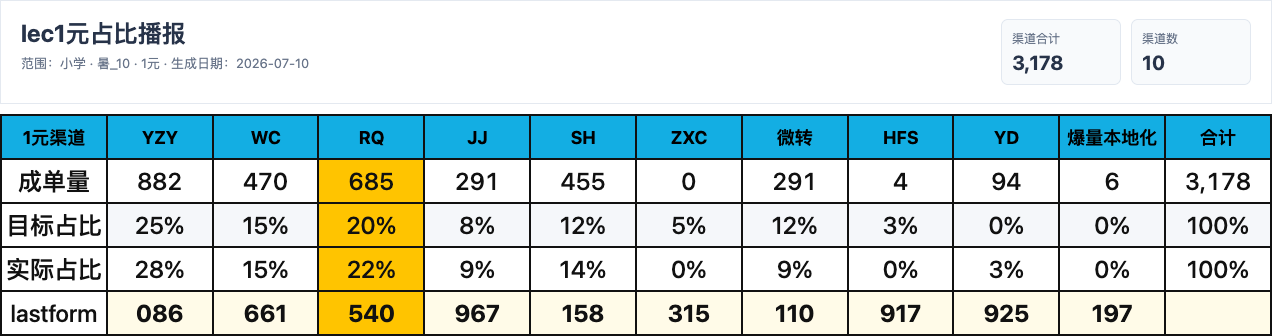
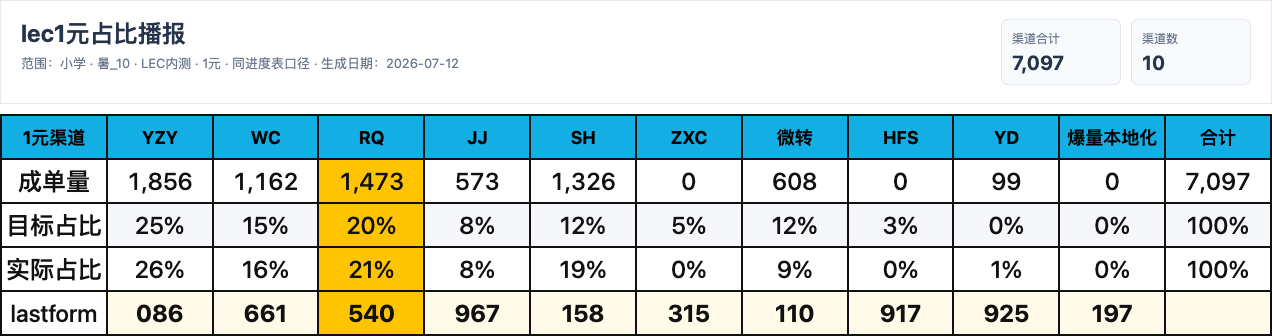
Align lec1 share report with progress summary

diff --git a/reports/daily_progress/lec1_share.html b/reports/daily_progress/lec1_share.html
@@ -10,17 +10,17 @@
     <header>
       <div>
         <h1>lec1元占比播报</h1>
-        <p>范围：小学 · 暑_10 · 1元 · 生成日期：2026-07-10</p>
+        <p>范围：小学 · 暑_10 · LEC内测 · 1元 · 同进度表口径 · 生成日期：2026-07-12</p>
       </div>
       <div class="metrics">
-        <div><span>渠道合计</span><b>3,178</b></div>
+        <div><span>渠道合计</span><b>7,097</b></div>
         <div><span>渠道数</span><b>10</b></div>
       </div>
     </header>
     <section class="card lec1-card">
       <table class="lec1-table">
         <thead><tr><th>1元渠道</th><th>YZY</th><th>WC</th><th>RQ</th><th>JJ</th><th>SH</th><th>ZXC</th><th>微转</th><th>HFS</th><th>YD</th><th>爆量本地化</th><th>合计</th></tr></thead>
-        <tbody><tr><th>成单量</th><td class="num">882</td><td class="num">470</td><td class="num highlight">685</td><td class="num">291</td><td class="num">455</td><td class="num">0</td><td class="num">291</td><td class="num">4</td><td class="num">94</td><td class="num">6</td><td class="num">3,178</td></tr><tr><th>目标占比</th><td>25%</td><td>15%</td><td class="highlight">20%</td><td>8%</td><td>12%</td><td>5%</td><td>12%</td><td>3%</td><td>0%</td><td>0%</td><td>100%</td></tr><tr><th>实际占比</th><td>28%</td><td>15%</td><td class="highlight">22%</td><td>9%</td><td>14%</td><td>0%</td><td>9%</td><td>0%</td><td>3%</td><td>0%</td><td>100%</td></tr><tr><th>lastform</th><td>086</td><td>661</td><td class="highlight">540</td><td>967</td><td>158</td><td>315</td><td>110</td><td>917</td><td>925</td><td>197</td><td></td></tr></tbody>
+        <tbody><tr><th>成单量</th><td class="num">1,856</td><td class="num">1,162</td><td class="num highlight">1,473</td><td class="num">573</td><td class="num">1,326</td><td class="num">0</td><td class="num">608</td><td class="num">0</td><td class="num">99</td><td class="num">0</td><td class="num">7,097</td></tr><tr><th>目标占比</th><td>25%</td><td>15%</td><td class="highlight">20%</td><td>8%</td><td>12%</td><td>5%</td><td>12%</td><td>3%</td><td>0%</td><td>0%</td><td>100%</td></tr><tr><th>实际占比</th><td>26%</td><td>16%</td><td class="highlight">21%</td><td>8%</td><td>19%</td><td>0%</td><td>9%</td><td>0%</td><td>1%</td><td>0%</td><td>100%</td></tr><tr><th>lastform</th><td>086</td><td>661</td><td class="highlight">540</td><td>967</td><td>158</td><td>315</td><td>110</td><td>917</td><td>925</td><td>197</td><td></td></tr></tbody>
       </table>
     </section>
   </main>

diff --git a/reports/build_daily_report_images.py b/reports/build_daily_report_images.py
@@ -11,6 +11,7 @@ import pandas as pd
 ROOT = Path("/Users/kityhello/workplace/project/rizhuizong")
 SUMMARY_PATH = ROOT / "outputs" / "tongji_summary" / "tongji_summary_current.xlsx"
 DEMO_PATH = ROOT / "tongji_demo.xlsx"
+TARGET_PATH = ROOT / "tongji_target.xlsx"
 OUT_DIR = ROOT / "reports" / "daily_progress"
 TOTAL_DAYS = 6
 DEPARTMENTS = ["小学", "初中", "高中"]
@@ -281,7 +282,6 @@ def table_html(title, rows, columns):
 
 
 LEC1_TERM = "暑_10"
-LEC1_CUTOFF = pd.Timestamp("2026-07-09 21:31:07")
 
 
 def latest_target_term(df):
@@ -290,20 +290,80 @@ def latest_target_term(df):
     return terms[-1] if terms else None
 
 
-def filter_lec1_data(demo):
-    return demo[
-        demo["学部"].eq("小学")
-        & demo["期次"].eq(LEC1_TERM)
-        & pd.to_numeric(demo["价体"], errors="coerce").isin([1, 100])
-        & pd.to_datetime(demo["支付时间"], errors="coerce").le(LEC1_CUTOFF)
+def normalize_report_channel(value):
+    if isinstance(value, str) and value.startswith("外部微转-"):
+        return "外部微转-*"
+    return value
+
+
+def assign_summary_channel(row, exact_target_keys, fallback_channels):
+    channel = normalize_report_channel(row["线索渠道二级分类"])
+    exact_key = (row["学部"], row["期次"], channel, row["价体"], row["年级"])
+    if exact_key in exact_target_keys or channel == "常规外呼":
+        return channel
+
+    fallback_key = (row["学部"], row["期次"], row["价体"], row["年级"])
+    candidates = fallback_channels.get(fallback_key, set())
+    if len(candidates) == 1:
+        return next(iter(candidates))
+    if len(candidates) > 1:
+        if "常规外呼" in candidates:
+            return "常规外呼"
+        if "LEC内测" in candidates:
+            return "LEC内测"
+    return channel
+
+
+def filter_lec1_data(demo, target):
+    data = demo.copy()
+    data["下单日期"] = pd.to_datetime(data["下单日期"], errors="coerce").dt.normalize()
+
+    target_data = target.copy()
+    target_data["线索渠道二级分类"] = target_data["线索渠道二级分类"].map(normalize_report_channel)
+    target_data["进量日期"] = pd.to_datetime(
+        target_data["进量日期"],
+        errors="coerce",
+    ).dt.normalize()
+    intake_dates = (
+        target_data.groupby(["学部", "期次"], dropna=False, as_index=False)["进量日期"]
+        .max()
+        .rename(columns={"进量日期": "目标进量日期"})
+    )
+    data = data.merge(intake_dates, on=["学部", "期次"], how="left")
+    data = data[data["目标进量日期"].isna() | data["下单日期"].ge(data["目标进量日期"])].copy()
+
+    exact_target_keys = set()
+    fallback_channels = {}
+    for row in target_data[["学部", "期次", "线索渠道二级分类", "价体", "年级"]].itertuples(index=False, name=None):
+        exact_target_keys.add(row)
+        fallback_key = (row[0], row[1], row[3], row[4])
+        fallback_channels.setdefault(fallback_key, set()).add(row[2])
+
+    data["归属后渠道"] = data.apply(
+        lambda row: assign_summary_channel(row, exact_target_keys, fallback_channels),
+        axis=1,
+    )
+    return data[
+        data["学部"].eq("小学")
+        & data["期次"].eq(LEC1_TERM)
+        & data["归属后渠道"].eq("LEC内测")
+        & pd.to_numeric(data["价体"], errors="coerce").eq(100)
     ].copy()
 
 
-def render_lec1_share(demo):
-    data = filter_lec1_data(demo)
-    totals = data.groupby(data["last_from"].astype(str))["成单量"].sum()
+def lec1_channel_counts(data):
+    data = data.copy()
+    data["_custom_uid_key"] = [
+        ("custom_uid", value) if pd.notna(value) else ("missing_row", position)
+        for position, value in enumerate(data["custom_uid"])
+    ]
+    totals = data.groupby(data["last_from"].astype(str))["_custom_uid_key"].nunique()
+    return [int(totals.get(last_from, 0)) for _name, last_from, _target_share in LEC1_CHANNELS]
 
-    counts = [int(totals.get(last_from, 0)) for _name, last_from, _target_share in LEC1_CHANNELS]
+
+def render_lec1_share(demo, target):
+    data = filter_lec1_data(demo, target)
+    counts = lec1_channel_counts(data)
     total = sum(counts)
     actual_shares = [count / total if total else 0 for count in counts]
     target_shares = [target_share for _name, _last_from, target_share in LEC1_CHANNELS]
@@ -351,7 +411,7 @@ def render_lec1_share(demo):
     <header>
       <div>
         <h1>{html.escape(title)}</h1>
-        <p>范围：小学 · {html.escape(LEC1_TERM)} · 1元 · 生成日期：{pd.Timestamp.today().strftime("%Y-%m-%d")}</p>
+        <p>范围：小学 · {html.escape(LEC1_TERM)} · LEC内测 · 1元 · 同进度表口径 · 生成日期：{pd.Timestamp.today().strftime("%Y-%m-%d")}</p>
       </div>
       <div class="metrics">
         <div><span>渠道合计</span><b>{int_text(total)}</b></div>
@@ -376,7 +436,7 @@ def render_lec1_share(demo):
         "html": str(html_path),
         "png": str(OUT_DIR / "lec1_share.png"),
         "summary": {
-            "范围": f"小学 {LEC1_TERM} 1元",
+            "范围": f"小学 {LEC1_TERM} LEC内测 1元 同进度表口径",
             "成单量": str(total),
             "实际占比": "；".join(f"{name}={pct_text(share)}" for name, share in zip(names, actual_shares)),
         },
@@ -450,6 +510,7 @@ def main():
     (OUT_DIR / "report.css").write_text(CSS, encoding="utf-8")
     df = normalize_summary_frame(pd.read_excel(SUMMARY_PATH, sheet_name="目标现状对比", header=1))
     demo = pd.read_excel(DEMO_PATH, sheet_name="rizhuizong_city (17)")
+    target = pd.read_excel(TARGET_PATH, sheet_name="Sheet1")
     outputs = []
     for dept in DEPARTMENTS:
         dept_df = df[df["学部"].eq(dept)].copy()
@@ -458,7 +519,7 @@ def main():
         output = render_department(dept, dept_df)
         if output:
             outputs.append(output)
-    lec1_output = render_lec1_share(demo)
+    lec1_output = render_lec1_share(demo, target)
     if lec1_output:
         outputs.append(lec1_output)
     (OUT_DIR / "manifest.json").write_text(json.dumps(outputs, ensure_ascii=False, indent=2), encoding="utf-8")

diff --git a/tests/test_daily_report_images.py b/tests/test_daily_report_images.py
@@ -4,10 +4,10 @@ import pandas as pd
 
 from reports.build_daily_report_images import (
     LEC1_CHANNELS,
-    LEC1_CUTOFF,
     LEC1_TERM,
     channel_label,
     filter_lec1_data,
+    lec1_channel_counts,
     progress_gap,
     remaining_days,
     render_rows,
@@ -64,20 +64,111 @@ class Lec1ChannelsTest(unittest.TestCase):
         )
         self.assertAlmostEqual(sum(channel[2] for channel in LEC1_CHANNELS), 1.0)
 
-    def test_scope_uses_confirmed_term_and_cutoff(self):
+    def test_scope_matches_progress_summary_without_payment_cutoff(self):
         demo = pd.DataFrame(
             [
-                {"学部": "小学", "期次": "暑_10", "价体": 100, "支付时间": LEC1_CUTOFF},
-                {"学部": "小学", "期次": "暑_10", "价体": 100, "支付时间": LEC1_CUTOFF + pd.Timedelta(seconds=1)},
-                {"学部": "小学", "期次": "暑_8", "价体": 100, "支付时间": LEC1_CUTOFF},
+                {
+                    "学部": "小学",
+                    "期次": "暑_10",
+                    "线索渠道二级分类": "LEC内测",
+                    "价体": 100,
+                    "年级": "三年级",
+                    "下单日期": "2026-07-09",
+                    "支付时间": "2026-07-10 10:00:00",
+                    "custom_uid": "u1",
+                    "last_from": "out_wxst_wxstqt_1774944753086",
+                },
+                {
+                    "学部": "小学",
+                    "期次": "暑_8",
+                    "线索渠道二级分类": "LEC内测",
+                    "价体": 100,
+                    "年级": "三年级",
+                    "下单日期": "2026-07-09",
+                    "支付时间": "2026-07-10 10:00:00",
+                    "custom_uid": "u2",
+                    "last_from": "out_wxst_wxstqt_1774944753086",
+                },
+                {
+                    "学部": "小学",
+                    "期次": "暑_10",
+                    "线索渠道二级分类": "LEC内测",
+                    "价体": 100,
+                    "年级": "三年级",
+                    "下单日期": "2026-07-08",
+                    "支付时间": "2026-07-08 10:00:00",
+                    "custom_uid": "u3",
+                    "last_from": "out_wxst_wxstqt_1774944753086",
+                },
+            ]
+        )
+        target = pd.DataFrame(
+            [
+                {
+                    "学部": "小学",
+                    "期次": "暑_10",
+                    "线索渠道二级分类": "LEC内测",
+                    "价体": 100,
+                    "年级": "三年级",
+                    "目标": 100,
+                    "target_time": "2026-07-15",
+                    "进量日期": "2026-07-09",
+                },
             ]
         )
 
-        result = filter_lec1_data(demo)
+        result = filter_lec1_data(demo, target)
 
         self.assertEqual(LEC1_TERM, "暑_10")
         self.assertEqual(len(result), 1)
-        self.assertEqual(result.iloc[0]["支付时间"], LEC1_CUTOFF)
+        self.assertEqual(result.iloc[0]["custom_uid"], "u1")
+
+    def test_unmatched_external_transfer_is_counted_in_mapped_last_from_after_assignment(self):
+        demo = pd.DataFrame(
+            [
+                {
+                    "学部": "小学",
+                    "期次": "暑_10",
+                    "线索渠道二级分类": "外部微转-测试",
+                    "价体": 100,
+                    "年级": "三年级",
+                    "下单日期": "2026-07-09",
+                    "custom_uid": "u1",
+                    "last_from": "out_wxst_wxstqt_1774945129110",
+                },
+                {
+                    "学部": "小学",
+                    "期次": "暑_10",
+                    "线索渠道二级分类": "外部微转-测试",
+                    "价体": 100,
+                    "年级": "三年级",
+                    "下单日期": "2026-07-09",
+                    "custom_uid": "u1",
+                    "last_from": "out_wxst_wxstqt_1774945129110",
+                },
+            ]
+        )
+        target = pd.DataFrame(
+            [
+                {
+                    "学部": "小学",
+                    "期次": "暑_10",
+                    "线索渠道二级分类": "LEC内测",
+                    "价体": 100,
+                    "年级": "三年级",
+                    "目标": 100,
+                    "target_time": "2026-07-15",
+                    "进量日期": "2026-07-09",
+                },
+            ]
+        )
+
+        result = filter_lec1_data(demo, target)
+        counts = lec1_channel_counts(result)
+        micro_transfer_index = [name for name, _code, _share in LEC1_CHANNELS].index("微转")
+
+        self.assertEqual(len(result), 2)
+        self.assertEqual(counts[micro_transfer_index], 1)
 
 
 class StatusTextTest(unittest.TestCase):

diff --git a/docs/PRD-progress-dashboard.md b/docs/PRD-progress-dashboard.md
@@ -152,7 +152,7 @@ Daily progress broadcast field mapping:
 - 每期按 6 个业务日折算，每周一为业务休息日；`剩余天数 = max(6 - 当前进度阶段, 1)`，其中 `当前进度阶段 = 进度 × 6`。剩余天数与进度使用同一计算结果，不再按自然日期相减。
 - `状态` uses the same classification as the dashboard.
 - Grade rows use business order: 小学二至六年级、初中初一至初三、高中高一至高三。
-- `lec1元占比` 固定统计小学 `暑_10`、支付时间不晚于 `2026-07-09 21:31:07` 的 1 元数据。渠道顺序与目标占比为：YZY 25%、WC 15%、RQ 20%、JJ 8%、SH 12%、ZXC 5%、微转 12%、HFS 3%、YD 0%、爆量本地化 0%；没有目标的渠道目标占比显示 0%，实际占比仍按真实成单量除以全部展示渠道成单量计算。渠道按完整 `last_from` 精确匹配，表中仅展示末三位。
+- `lec1元占比` 固定统计小学 `暑_10`、`LEC内测`、1 元数据，过滤、渠道归属和去重口径与进度表 `现状` 一致：按学部期次进量日期过滤，未命中 target 的渠道按 Summary 规则归属，同一统计范围内按 `custom_uid` 去重。渠道顺序与目标占比为：YZY 25%、WC 15%、RQ 20%、JJ 8%、SH 12%、ZXC 5%、微转 12%、HFS 3%、YD 0%、爆量本地化 0%；没有目标的渠道目标占比显示 0%，实际占比按各展示渠道成单量除以全部展示渠道成单量计算。渠道按完整 `last_from` 精确匹配，表中仅展示末三位。
 
 DingTalk broadcast note:
 

diff --git a/docs/CHANGELOG.md b/docs/CHANGELOG.md
@@ -2,6 +2,12 @@
 
 所有重要功能变更都记录在这里。最新变更放在最上方。
 
+## 2026-07-12
+
+### Changed
+
+- `lec1元占比` 播报图改为与进度表同口径：小学 `暑_10`、`LEC内测`、1 元，按进量日期过滤、Summary 渠道归属和 `custom_uid` 去重后，再按固定 `last_from` 渠道拆分占比。
+
 ## 2026-07-10
 
 ### Changed
